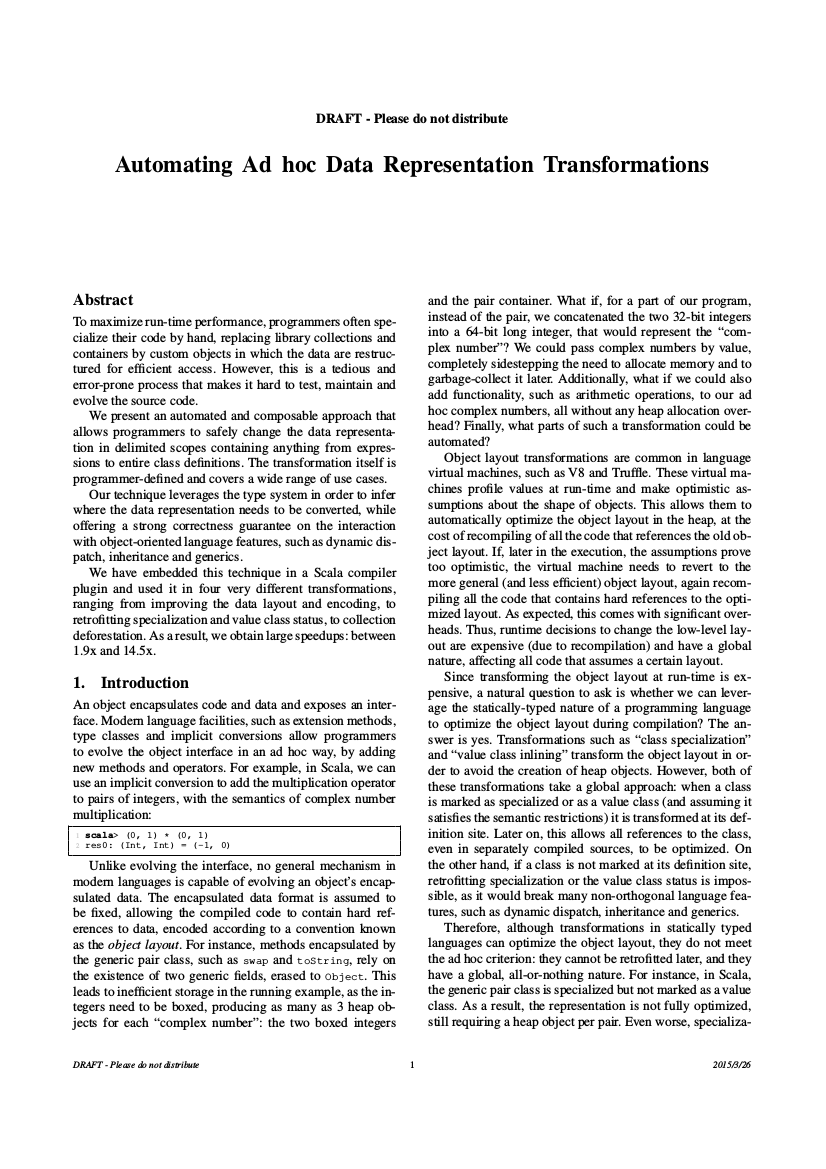
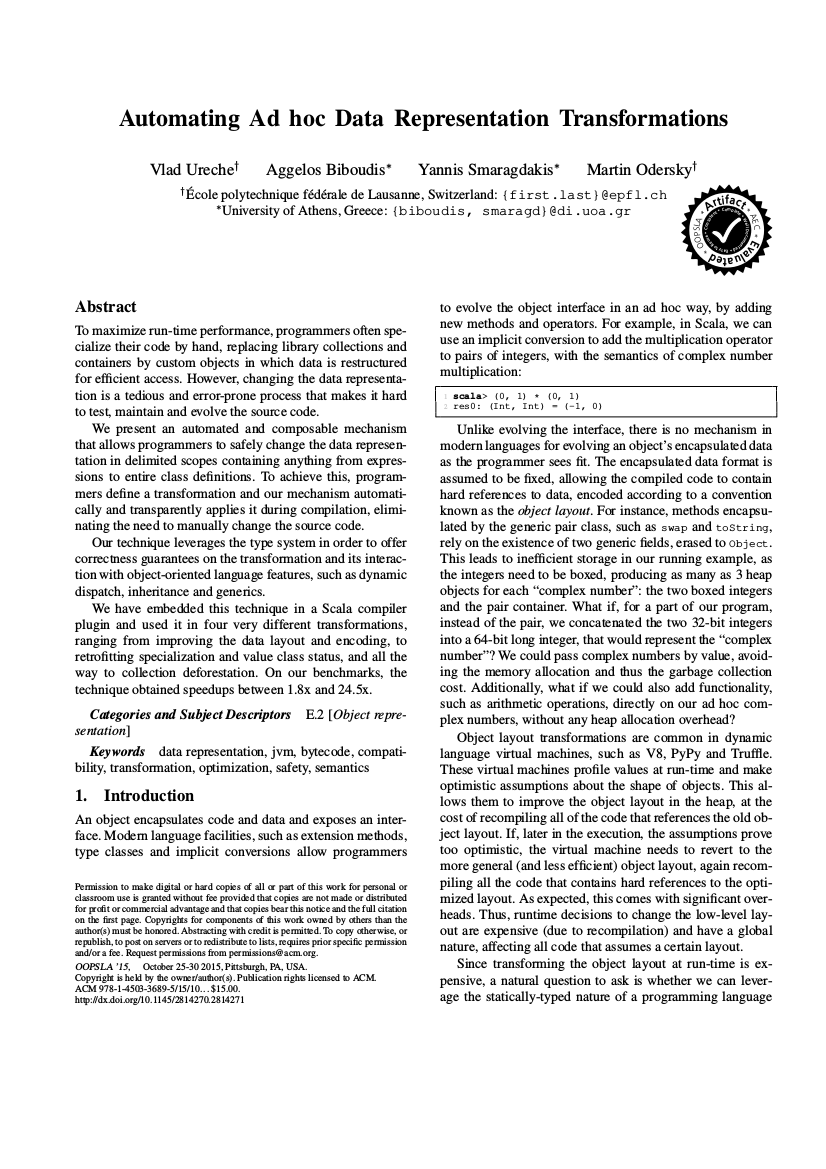
Updated the paper

Changed region(s): [[0.0908, 0.0924, 0.9383, 0.9239]]

diff --git a/ildl/index.md b/ildl/index.md
@@ -18,7 +18,7 @@ We have tested several cases of data-centric metaprogramming, [with exceptional 
 ## Paper and Poster
 <br/>
 <center>
-<a href="https://github.com/miniboxing/miniboxing-plugin/blob/wip/docs/2015-03-ildl-draft.pdf?raw=true" target="_blank"><img src="/images/ildl-paper.png" width="45%" style="border:3px solid black; box-shadow: 10px 10px 5px #888888;"/></a>&nbsp;
+<a href="https://github.com/miniboxing/miniboxing-plugin/blob/wip/docs/2015-08-ildl-oopsla.pdf?raw=true" target="_blank"><img src="/images/ildl-paper.png" width="45%" style="border:3px solid black; box-shadow: 10px 10px 5px #888888;"/></a>&nbsp;
 <a href="https://github.com/miniboxing/miniboxing-plugin/blob/wip/docs/2015-05-ildl-poster.pdf?raw=true" target="_blank"><img src="/images/ildl-poster.png" width="45%" style="border:3px solid black; box-shadow: 10px 10px 5px #888888;"/></a>
 </center>
 
